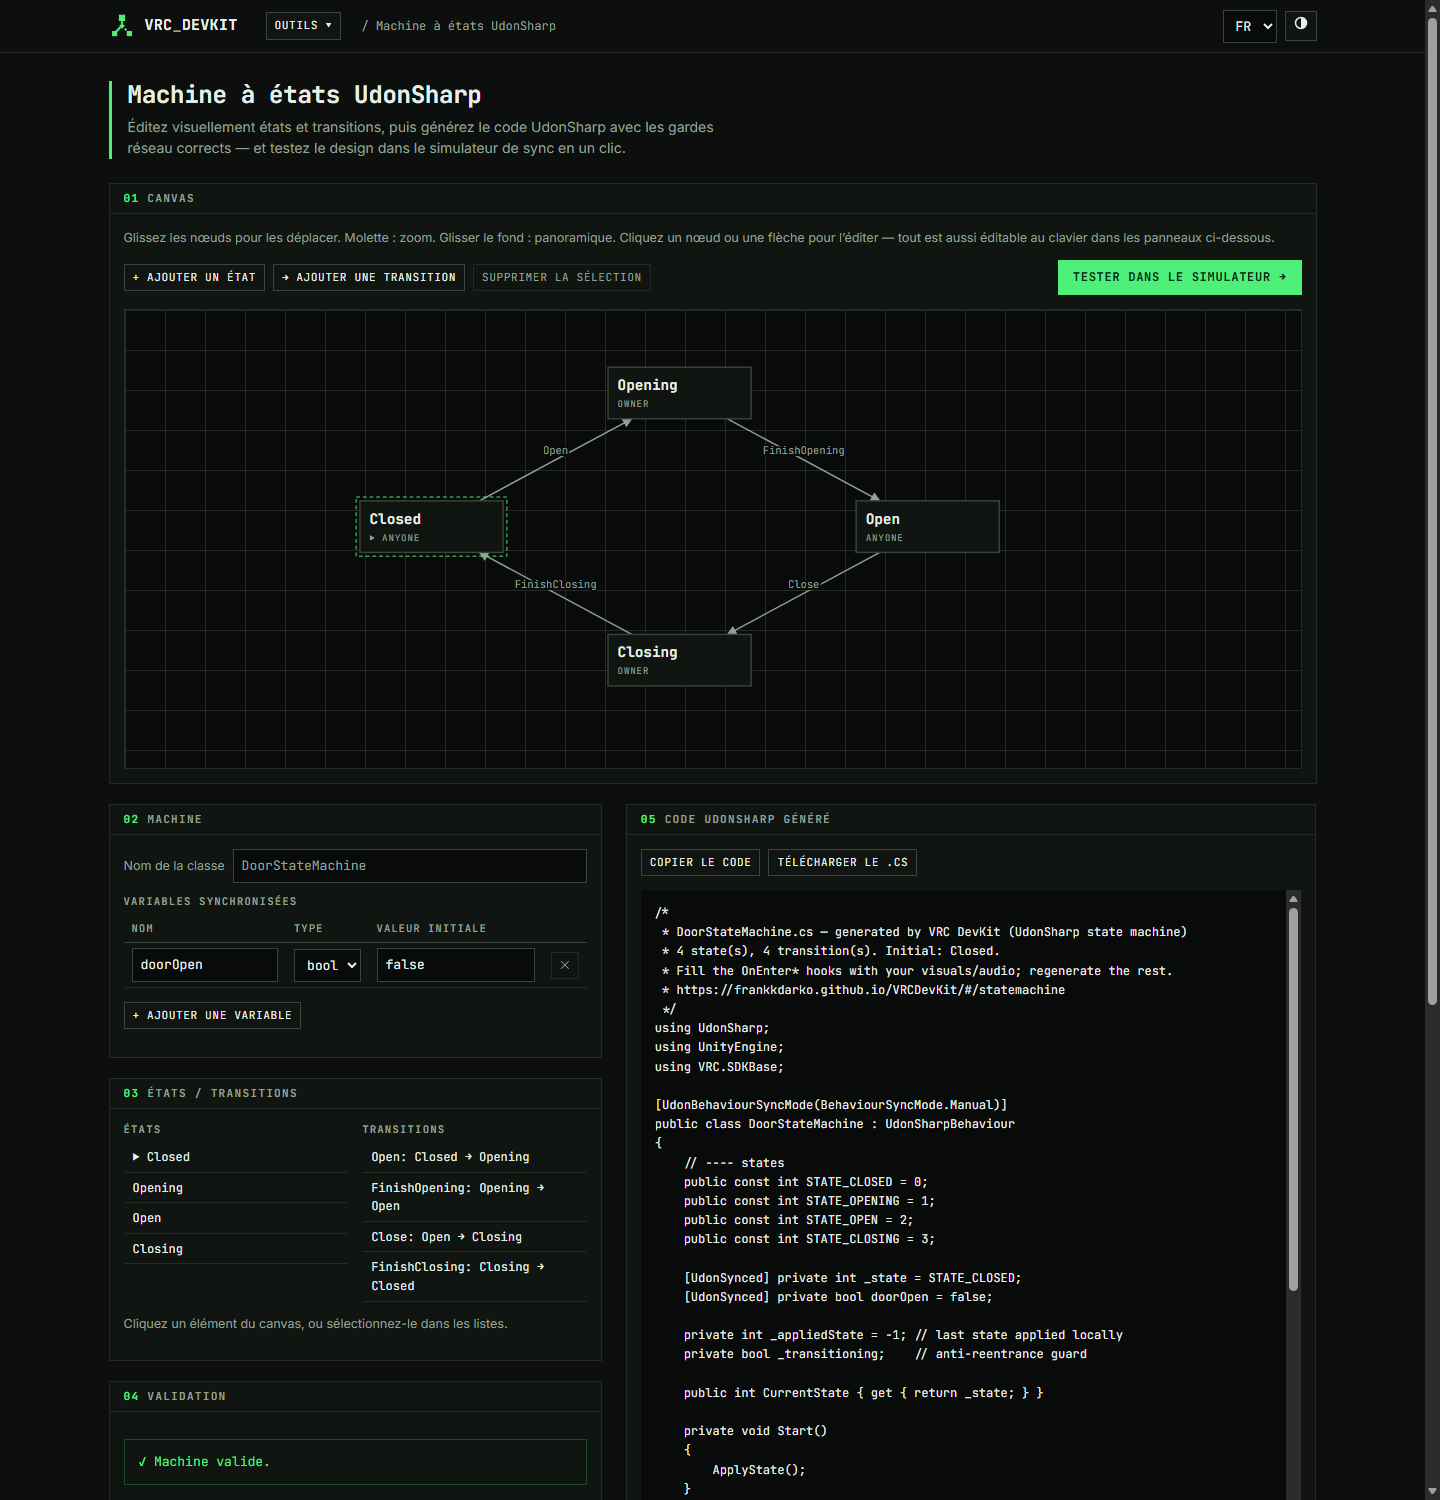
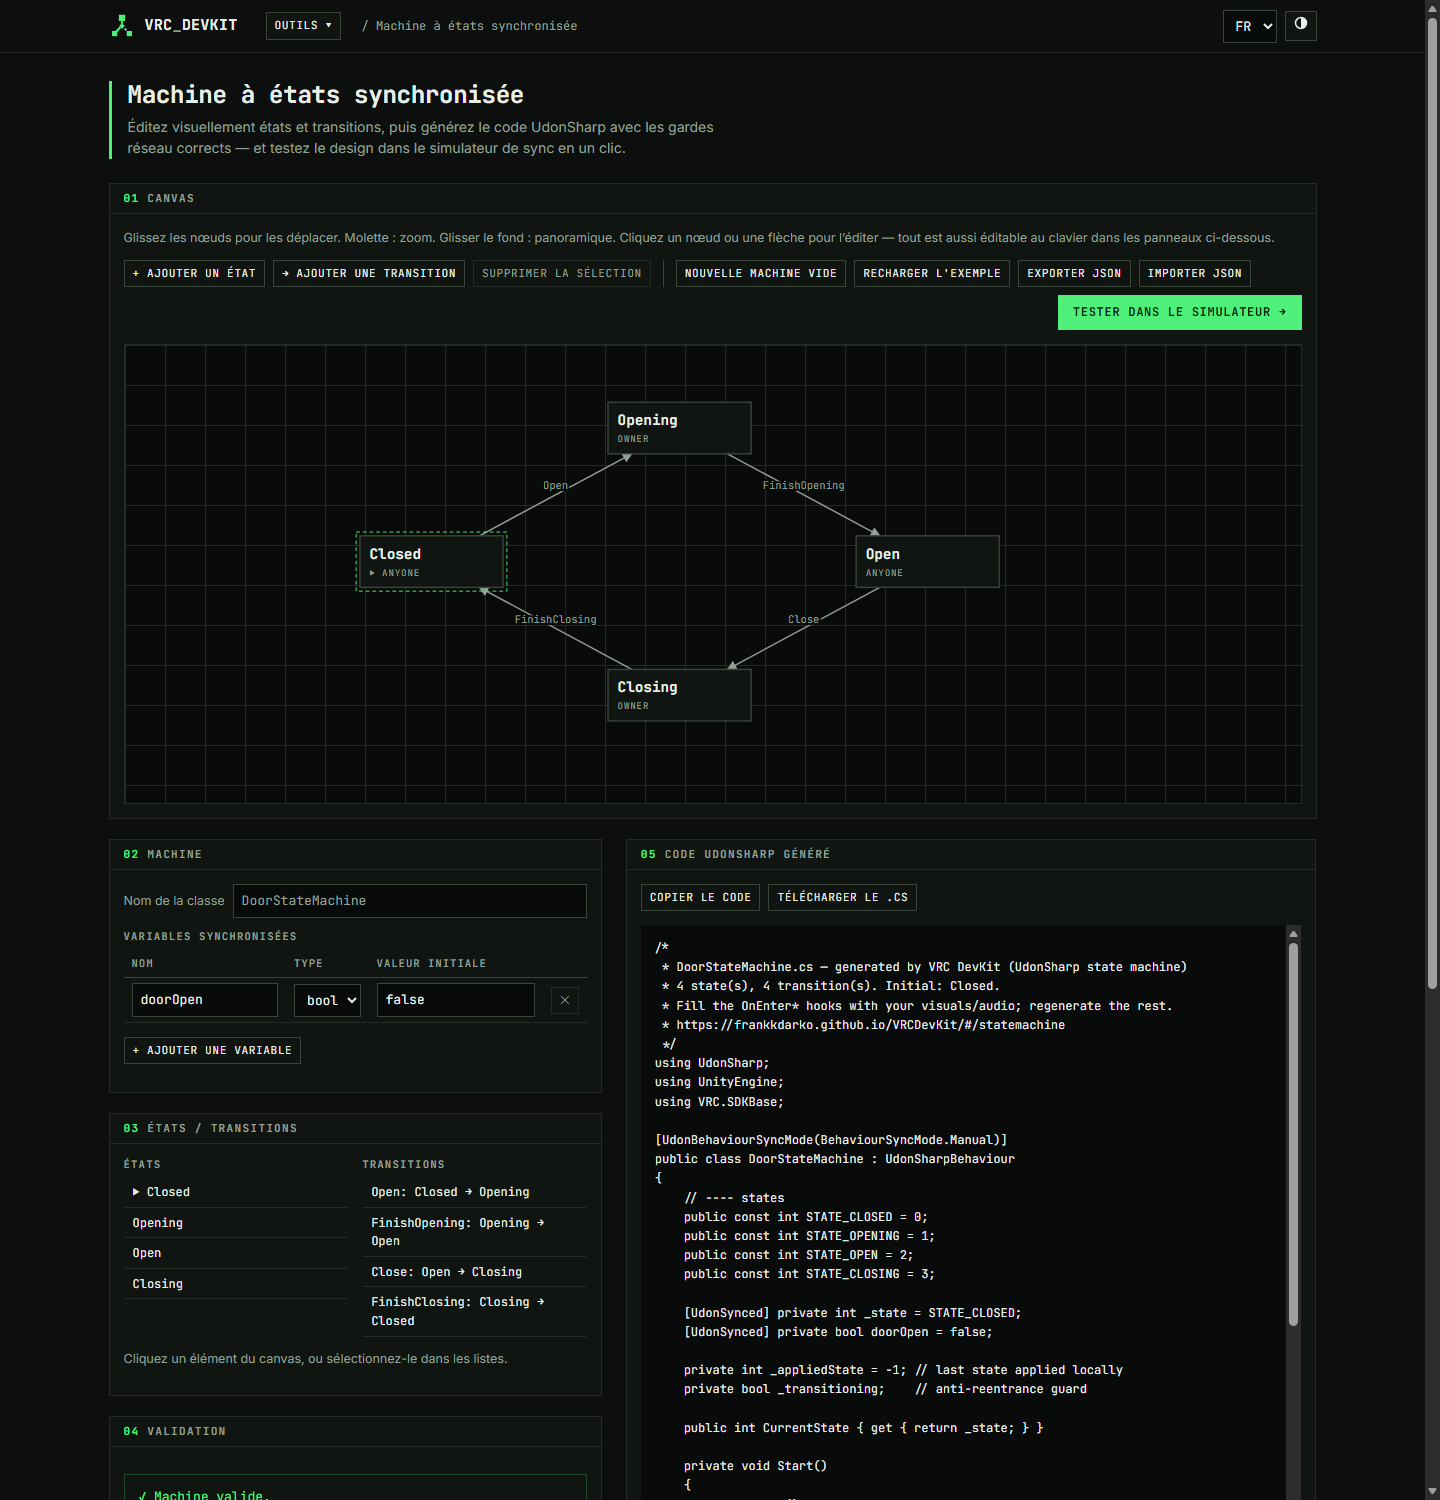
polish: clearer tool names, state machine hardening
- Renames (FR/EN): Traduction de monde (was Localisation), Publication
  d'asset VCC (was Générateur de package VPM, with utility-first
  descriptions), Machine à états synchronisée, Diagnostic de portage Quest
- State machine: no longer crashes when every state is deleted (codegen
  emits a stub + validation error instead), new-empty-machine and
  reload-example buttons, machine export/import as JSON
- README section titles aligned, five screenshots refreshed
- 95 tests passing

diff --git a/src/pages/StateMachine.tsx b/src/pages/StateMachine.tsx
@@ -1,4 +1,4 @@
-import { useEffect, useMemo, useState } from 'react';
+import { useEffect, useMemo, useRef, useState } from 'react';
 import { useI18n } from '../i18n';
 import type { MessageKey } from '../i18n/types';
 import { Panel } from '../components/ui/Panel';
@@ -23,13 +23,81 @@ const freshId = (prefix: string) => prefix + Math.random().toString(36).slice(2,
 const AUTHORITIES: SmAuthority[] = ['anyone', 'owner', 'master'];
 const VAR_TYPES: SmVarType[] = ['bool', 'int', 'float', 'string'];
 
+/** Blank machine to start a design from scratch: one initial state, nothing else. */
+function emptyMachine(): SmMachine {
+  const id = freshId('s-');
+  return {
+    className: 'MyStateMachine',
+    initialStateId: id,
+    variables: [],
+    states: [{ id, name: 'Idle', x: 320, y: 190, authority: 'anyone', assignments: [] }],
+    transitions: [],
+  };
+}
+
+/** Defensive normalization of an imported machine JSON. */
+function normalizeMachine(raw: unknown): SmMachine {
+  const r = raw as Partial<SmMachine>;
+  if (!r || !Array.isArray(r.states) || !Array.isArray(r.transitions)) {
+    throw new Error('not a state machine');
+  }
+  const states = r.states.slice(0, 64).map((s, i) => {
+    const ss = s as Partial<SmMachine['states'][number]>;
+    return {
+      id: typeof ss.id === 'string' && ss.id !== '' ? ss.id : freshId('s-'),
+      name: String(ss.name ?? `State${i}`),
+      x: Number(ss.x) || 80 + (i % 4) * 180,
+      y: Number(ss.y) || 80 + Math.floor(i / 4) * 110,
+      authority: (['master', 'owner', 'anyone'] as const).includes(ss.authority as SmAuthority)
+        ? (ss.authority as SmAuthority)
+        : 'anyone',
+      assignments: Array.isArray(ss.assignments)
+        ? ss.assignments.slice(0, 16).map((a) => ({
+            variable: String((a as { variable?: unknown }).variable ?? ''),
+            value: String((a as { value?: unknown }).value ?? ''),
+          }))
+        : [],
+    };
+  });
+  return {
+    className: String(r.className ?? 'StateMachine'),
+    initialStateId:
+      typeof r.initialStateId === 'string' && states.some((s) => s.id === r.initialStateId)
+        ? r.initialStateId
+        : states[0]?.id ?? '',
+    variables: Array.isArray(r.variables)
+      ? r.variables.slice(0, 32).map((v, i) => {
+          const vv = v as Partial<SmMachine['variables'][number]>;
+          return {
+            name: String(vv.name ?? `var${i}`),
+            type: VAR_TYPES.includes(vv.type as SmVarType) ? (vv.type as SmVarType) : 'int',
+            initial: String(vv.initial ?? '0'),
+          };
+        })
+      : [],
+    states,
+    transitions: r.transitions.slice(0, 128).map((t, i) => {
+      const tt = t as Partial<SmMachine['transitions'][number]>;
+      return {
+        id: typeof tt.id === 'string' && tt.id !== '' ? tt.id : freshId('t-'),
+        name: String(tt.name ?? `Trigger${i}`),
+        from: String(tt.from ?? ''),
+        to: String(tt.to ?? ''),
+        condition: String(tt.condition ?? ''),
+      };
+    }),
+  };
+}
+
 export function StateMachine() {
   const { t } = useI18n();
   const [machine, setMachine] = useState<SmMachine>(defaultMachine);
   const [selection, setSelection] = useState<SmSelection>(null);
   const [linkSource, setLinkSource] = useState<string | null>(null);
   const [linkMode, setLinkMode] = useState(false);
+  const [notice, setNotice] = useState<MessageKey | null>(null);
   const { copied, copy } = useCopied();
+  const importInput = useRef<HTMLInputElement>(null);
 
   const issues = useMemo(() => validateMachine(machine), [machine]);
   const code = useMemo(() => generateStateMachine(machine), [machine]);
@@ -132,12 +200,34 @@ export function StateMachine() {
 
   const stateName = (id: string) => machine.states.find((s) => s.id === id)?.name ?? '?';
 
+  const replaceMachine = (m: SmMachine) => {
+    setMachine(m);
+    setSelection(null);
+    setLinkSource(null);
+    setLinkMode(false);
+    setNotice(null);
+  };
+
+  const importMachine = async (file: File) => {
+    try {
+      replaceMachine(normalizeMachine(JSON.parse(await file.text())));
+    } catch {
+      setNotice('sm.importError');
+    }
+  };
+
   return (
     <div className="container">
       <div className="page-head">
         <h1>{t('sm.title')}</h1>
         <p>{t('sm.subtitle')}</p>
       </div>
+
+      {notice && (
+        <p role="alert" className="issue" data-severity="warning">
+          {t(notice)}
+        </p>
+      )}
 
       <Panel idx="01" title={t('sm.canvas')}>
         <p style={{ color: 'var(--ink-muted)', fontSize: 12.5, marginTop: 0 }}>{t('sm.canvas.hint')}</p>
@@ -164,6 +254,40 @@ export function StateMachine() {
           <button type="button" className="btn small ghost" disabled={!selection} onClick={deleteSelection}>
             {t('sm.deleteSelected')}
           </button>
+          <span className="toolbar-sep" aria-hidden="true" />
+          <button type="button" className="btn small" onClick={() => replaceMachine(emptyMachine())}>
+            {t('sm.new')}
+          </button>
+          <button type="button" className="btn small" onClick={() => replaceMachine(defaultMachine())}>
+            {t('sm.example')}
+          </button>
+          <button
+            type="button"
+            className="btn small"
+            onClick={() =>
+              downloadFile(
+                `${sanitizeIdent(machine.className) || 'statemachine'}.machine.json`,
+                JSON.stringify(machine, null, 2),
+                'application/json',
+              )
+            }
+          >
+            {t('common.export')}
+          </button>
+          <button type="button" className="btn small" onClick={() => importInput.current?.click()}>
+            {t('common.import')}
+          </button>
+          <input
+            ref={importInput}
+            type="file"
+            accept=".json,application/json"
+            style={{ display: 'none' }}
+            onChange={(e) => {
+              const f = e.target.files?.[0];
+              if (f) void importMachine(f);
+              e.target.value = '';
+            }}
+          />
           <button
             type="button"
             className="btn primary"

diff --git a/src/i18n/fr/common.ts b/src/i18n/fr/common.ts
@@ -26,16 +26,16 @@ export const common = {
   'tool.playerdata.title': 'Générateur de schéma PlayerData',
   'tool.playerdata.desc':
     "Décrivez votre schéma de sauvegarde : l'outil génère la classe UdonSharp complète — getters/setters typés, OnPlayerRestored, valeurs par défaut — et le code de migration entre versions.",
-  'tool.statemachine.title': 'Machine à états UdonSharp',
+  'tool.statemachine.title': 'Machine à états synchronisée',
   'tool.statemachine.desc':
     "Éditez visuellement états et transitions, puis générez le code UdonSharp avec les gardes réseau corrects. Testable en un clic dans le simulateur de sync.",
-  'tool.vpm.title': 'Générateur de package VPM',
+  'tool.vpm.title': "Publication d'asset (VCC)",
   'tool.vpm.desc':
-    "Nom, identifiant, version, dépendances : obtenez package.json, listing de dépôt, workflow de publication et README d'installation VCC, validés et téléchargeables en une archive.",
-  'tool.quest-triage.title': 'Triage de portage Quest',
+    "Distribuez votre asset proprement : vos acheteurs ajoutent votre dépôt au VRChat Creator Companion et installent — puis mettent à jour — le package en un clic, comme un package officiel. Tout le nécessaire est généré et validé.",
+  'tool.quest-triage.title': 'Diagnostic de portage Quest',
   'tool.quest-triage.desc':
     'Un arbre de décision guidé par symptôme — écran noir, textures manquantes, lightmaps cassées… — menant à une fiche : cause probable, vérification, correctif pas à pas.',
-  'tool.localization.title': 'Localisation de monde',
+  'tool.localization.title': 'Traduction de monde',
   'tool.localization.desc':
     'Table de traduction éditable avec import/export CSV et JSON, détection des clés manquantes ou trop longues, et script UdonSharp runtime prêt à brancher.',
 
@@ -90,7 +90,7 @@ export const common = {
   'pd.downloadCs': 'Télécharger le .cs',
   'pd.importError': 'JSON invalide : schéma ignoré.',
 
-  'loc.title': 'Localisation de monde',
+  'loc.title': 'Traduction de monde',
   'loc.subtitle':
     "Éditez vos traductions dans une table, importez/exportez en CSV ou JSON, et générez le script UdonSharp qui applique la bonne langue aux composants Text / TextMeshPro.",
   'loc.languages': 'Langues',
@@ -132,9 +132,12 @@ export const common = {
 
 Régénérez le fichier \`.cs\` après chaque modification de la table plutôt que d'éditer les tableaux de chaînes à la main.`,
 
-  'sm.title': 'Machine à états UdonSharp',
+  'sm.title': 'Machine à états synchronisée',
   'sm.subtitle':
     "Éditez visuellement états et transitions, puis générez le code UdonSharp avec les gardes réseau corrects — et testez le design dans le simulateur de sync en un clic.",
+  'sm.new': 'Nouvelle machine vide',
+  'sm.example': "Recharger l'exemple",
+  'sm.importError': 'JSON invalide : machine ignorée.',
   'sm.canvas': 'Canvas',
   'sm.canvas.hint':
     'Glissez les nœuds pour les déplacer. Molette : zoom. Glisser le fond : panoramique. Cliquez un nœud ou une flèche pour l’éditer — tout est aussi éditable au clavier dans les panneaux ci-dessous.',
@@ -185,9 +188,9 @@ Régénérez le fichier \`.cs\` après chaque modification de la table plutôt q
   'sm.issue.duplicate-variable': 'Variable en double : « {name} ».',
   'sm.code': 'Code UdonSharp généré',
 
-  'vpm.title': 'Générateur de package VPM',
+  'vpm.title': "Publication d'asset (VCC)",
   'vpm.subtitle':
-    "Décrivez votre package et déposez le dossier de l'asset : l'outil valide les entrées et produit package.json, listing de dépôt, workflow de publication et README d'installation — téléchargeables en une archive.",
+    "Le VRChat Creator Companion installe les assets distribués au format VPM. Décrivez votre package, déposez le dossier de l'asset, et l'outil génère tout le kit de distribution — package.json, listing de dépôt, workflow de release, README acheteur — validé et téléchargeable en une archive.",
   'vpm.package': 'Package',
   'vpm.displayName': 'Nom affiché',
   'vpm.id': 'Identifiant inversé',
@@ -234,7 +237,7 @@ Régénérez le fichier \`.cs\` après chaque modification de la table plutôt q
   'vpm.downloadZip': "Télécharger l'archive (.zip)",
   'vpm.listingUrl': 'URL du listing à ajouter dans le VCC',
 
-  'qt.title': 'Triage de portage Quest',
+  'qt.title': 'Diagnostic de portage Quest',
   'qt.subtitle':
     'Un diagnostic guidé, une question à la fois : partez du symptôme observé sur Quest et arrivez à une fiche correctif. Chaque fiche a une URL partageable.',
   'qt.question': 'Question',

diff --git a/src/i18n/en/common.ts b/src/i18n/en/common.ts
@@ -26,13 +26,13 @@ export const common = {
   'tool.playerdata.title': 'PlayerData schema generator',
   'tool.playerdata.desc':
     'Describe your save schema: the tool generates the full UdonSharp class — typed getters/setters, OnPlayerRestored, defaults — and the migration code between versions.',
-  'tool.statemachine.title': 'UdonSharp state machine',
+  'tool.statemachine.title': 'Synced state machine',
   'tool.statemachine.desc':
     'Visually edit states and transitions, then generate UdonSharp code with the right network guards. Testable in one click in the sync simulator.',
-  'tool.vpm.title': 'VPM package generator',
+  'tool.vpm.title': 'Asset publishing (VCC)',
   'tool.vpm.desc':
-    'Name, identifier, version, dependencies: get a validated package.json, repo listing, publish workflow and VCC install README, downloadable as one archive.',
-  'tool.quest-triage.title': 'Quest porting triage',
+    'Distribute your asset properly: buyers add your repository to the VRChat Creator Companion and install — then update — the package in one click, like an official package. Everything needed is generated and validated.',
+  'tool.quest-triage.title': 'Quest porting diagnostics',
   'tool.quest-triage.desc':
     'A guided decision tree by symptom — black screen, missing textures, broken lightmaps… — leading to a sheet: probable cause, check to run, step-by-step fix.',
   'tool.localization.title': 'World localization',
@@ -132,9 +132,12 @@ export const common = {
 
 Regenerate the \`.cs\` file after each table change rather than editing the string arrays by hand.`,
 
-  'sm.title': 'UdonSharp state machine',
+  'sm.title': 'Synced state machine',
   'sm.subtitle':
     'Visually edit states and transitions, then generate UdonSharp code with the right network guards — and test the design in the sync simulator in one click.',
+  'sm.new': 'New empty machine',
+  'sm.example': 'Reload the example',
+  'sm.importError': 'Invalid JSON: machine ignored.',
   'sm.canvas': 'Canvas',
   'sm.canvas.hint':
     'Drag nodes to move them. Wheel: zoom. Drag the background: pan. Click a node or an arrow to edit it — everything is also keyboard-editable in the panels below.',
@@ -184,9 +187,9 @@ Regenerate the \`.cs\` file after each table change rather than editing the stri
   'sm.issue.duplicate-variable': 'Duplicate variable: "{name}".',
   'sm.code': 'Generated UdonSharp code',
 
-  'vpm.title': 'VPM package generator',
+  'vpm.title': 'Asset publishing (VCC)',
   'vpm.subtitle':
-    "Describe your package and drop the asset folder: the tool validates the inputs and produces package.json, repo listing, publish workflow and install README — downloadable as one archive.",
+    'The VRChat Creator Companion installs assets distributed in the VPM format. Describe your package, drop the asset folder, and the tool generates the whole distribution kit — package.json, repo listing, release workflow, buyer README — validated and downloadable as one archive.',
   'vpm.package': 'Package',
   'vpm.displayName': 'Display name',
   'vpm.id': 'Reverse-domain id',
@@ -233,7 +236,7 @@ Regenerate the \`.cs\` file after each table change rather than editing the stri
   'vpm.downloadZip': 'Download the archive (.zip)',
   'vpm.listingUrl': 'Listing URL to add in the VCC',
 
-  'qt.title': 'Quest porting triage',
+  'qt.title': 'Quest porting diagnostics',
   'qt.subtitle':
     'A guided diagnosis, one question at a time: start from the symptom you see on Quest and land on a fix sheet. Every sheet has a shareable URL.',
   'qt.question': 'Question',

diff --git a/src/test/statemachine.test.ts b/src/test/statemachine.test.ts
@@ -52,6 +52,16 @@ describe('validateMachine', () => {
 describe('generateStateMachine', () => {
   const code = generateStateMachine(defaultMachine());
 
+  it('does not crash on an empty machine (all states deleted)', () => {
+    const empty = defaultMachine();
+    empty.states = [];
+    empty.transitions = [];
+    empty.initialStateId = '';
+    expect(() => generateStateMachine(empty)).not.toThrow();
+    expect(generateStateMachine(empty)).toContain('no states yet');
+    expect(() => toSimulatorState(empty)).not.toThrow();
+  });
+
   it('produces a structurally sound class with state constants', () => {
     expect(code).toContain('public class DoorStateMachine : UdonSharpBehaviour');
     expect((code.match(/{/g) ?? []).length).toBe((code.match(/}/g) ?? []).length);

diff --git a/src/generators/statemachine/codegen.ts b/src/generators/statemachine/codegen.ts
@@ -72,6 +72,15 @@ function authorityGuard(state: SmState): string[] {
 export function generateStateMachine(m: SmMachine): string {
   const cls = sanitizeIdent(m.className) || 'StateMachine';
   const states = m.states;
+  if (states.length === 0) {
+    return [
+      `/*`,
+      ` * ${cls}.cs — generated by VRC DevKit (state machine)`,
+      ` * The machine has no states yet: add at least one state to generate code.`,
+      ` */`,
+      ``,
+    ].join('\n');
+  }
   const initial = states.find((s) => s.id === m.initialStateId) ?? states[0];
   const byId = new Map(states.map((s) => [s.id, s]));
   const out: string[] = [];

diff --git a/src/styles/global.css b/src/styles/global.css
@@ -467,6 +467,12 @@ a.scenario-btn {
   padding-top: 12px;
   margin-top: 4px;
 }
+.toolbar-sep {
+  width: 1px;
+  align-self: stretch;
+  background: var(--line-strong);
+  margin: 0 4px;
+}
 .sm-editor .labelled {
   display: flex;
   align-items: center;

diff --git a/README.md b/README.md
@@ -25,7 +25,7 @@ export/import.
 
 ![Simulator: late joiner scenario with detected issues](docs/screenshots/simulator.png)
 
-### 02 — UdonSharp state machine (`#/statemachine`)
+### 02 — Synced state machine (`#/statemachine`)
 
 Visually edit states and transitions on a canvas (drag, zoom, pan) — or
 entirely from the keyboard-accessible panels. Each state declares who may
@@ -64,7 +64,7 @@ copy as plain text. Unparsable files warn without breaking anything.
 
 ![DocGen: generated installation guide with preview](docs/screenshots/docgen.png)
 
-### 05 — VPM package generator (`#/vpm`)
+### 05 — Asset publishing via VCC/VPM (`#/vpm`)
 
 Name, reverse-domain id, version, author, dependencies (Worlds / Avatars /
 UdonSharp) and your asset folder (dropped or typed): the tool validates
@@ -92,7 +92,7 @@ referenced Text / TextMeshProUGUI components, and an integration note.
 
 ## Diagnostics
 
-### 07 — Quest porting triage (`#/quest-triage`)
+### 07 — Quest porting diagnostics (`#/quest-triage`)
 
 A guided decision tree, one question at a time, starting from the symptom:
 black world, missing textures, size limit, broken lightmaps, PC/Android
@@ -154,7 +154,7 @@ détecté vient avec sévérité, cause en une phrase et correctif suggéré.
 Moteur déterministe et seedable ; l'état complet tient dans l'URL (JSON
 compressé) pour le partage, plus export/import JSON.
 
-### 02 — Machine à états UdonSharp (`#/statemachine`)
+### 02 — Machine à états synchronisée (`#/statemachine`)
 
 Éditez visuellement états et transitions sur un canvas (glisser, zoom,
 panoramique) — ou entièrement au clavier via les panneaux. Chaque état
@@ -188,7 +188,7 @@ défaut — et génère un guide d'installation en Markdown avec aperçu HTML.
 Langue du document indépendante de l'UI (**FR / EN / JP**) ; copie,
 téléchargement, texte brut. Un fichier non parsable avertit sans rien casser.
 
-### 05 — Générateur de package VPM (`#/vpm`)
+### 05 — Publication d'asset via le VCC (`#/vpm`)
 
 Nom, identifiant inversé, version, auteur, dépendances (Worlds / Avatars /
 UdonSharp) et votre dossier d'asset (déposé ou saisi) : l'outil valide tout —
@@ -201,7 +201,7 @@ dépendance.
 
 ## Contenu
 
-### 06 — Localisation de monde (`#/localization`)
+### 06 — Traduction de monde (`#/localization`)
 
 Une table de traduction éditable — une colonne clé, une colonne par langue —
 avec import/export CSV **et** JSON (virgule et point-virgule gérés).
@@ -214,7 +214,7 @@ note d'intégration.
 
 ## Diagnostic
 
-### 07 — Triage de portage Quest (`#/quest-triage`)
+### 07 — Diagnostic de portage Quest (`#/quest-triage`)
 
 Un arbre de décision guidé, une question à la fois, à partir du symptôme :
 monde noir, textures manquantes, limite de taille, lightmaps cassées,
